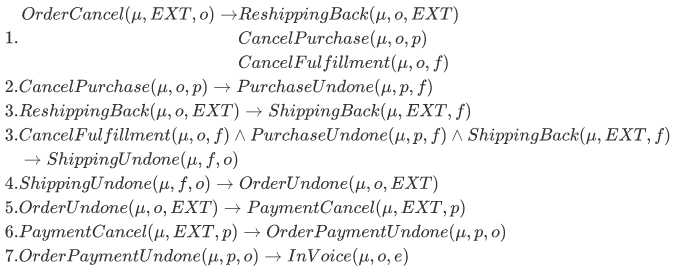
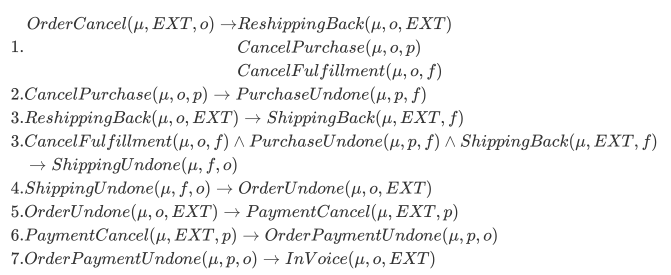
Correct misspelt word in business rules

Changed region(s): [[0.0, 0.0, 0.9836, 0.9706], [0.0, 0.1176, 0.0298, 0.1765]]

diff --git a/Research/CancelOrder/README.md b/Research/CancelOrder/README.md
@@ -20,7 +20,7 @@ OrderCancel(\mu,EXT,o)\rightarrow&ReshippingBack(\mu,o,EXT)\\
 4.&ShippingUndone(\mu,f,o)\rightarrow OrderUndone(\mu,o,EXT)\\
 5.&OrderUndone(\mu,o,EXT)\rightarrow PaymentCancel(\mu,EXT,p)\\
 6.&PaymentCancel(\mu,EXT,p)\rightarrow OrderPaymentUndone(\mu,p,o)\\
-7.&OrderPaymentUndone(\mu,p,o)\rightarrow InVoice(\mu,o,e)
+7.&OrderPaymentUndone(\mu,p,o)\rightarrow InVoice(\mu,o,EXT)
 \end{aligned}
 $$
 
